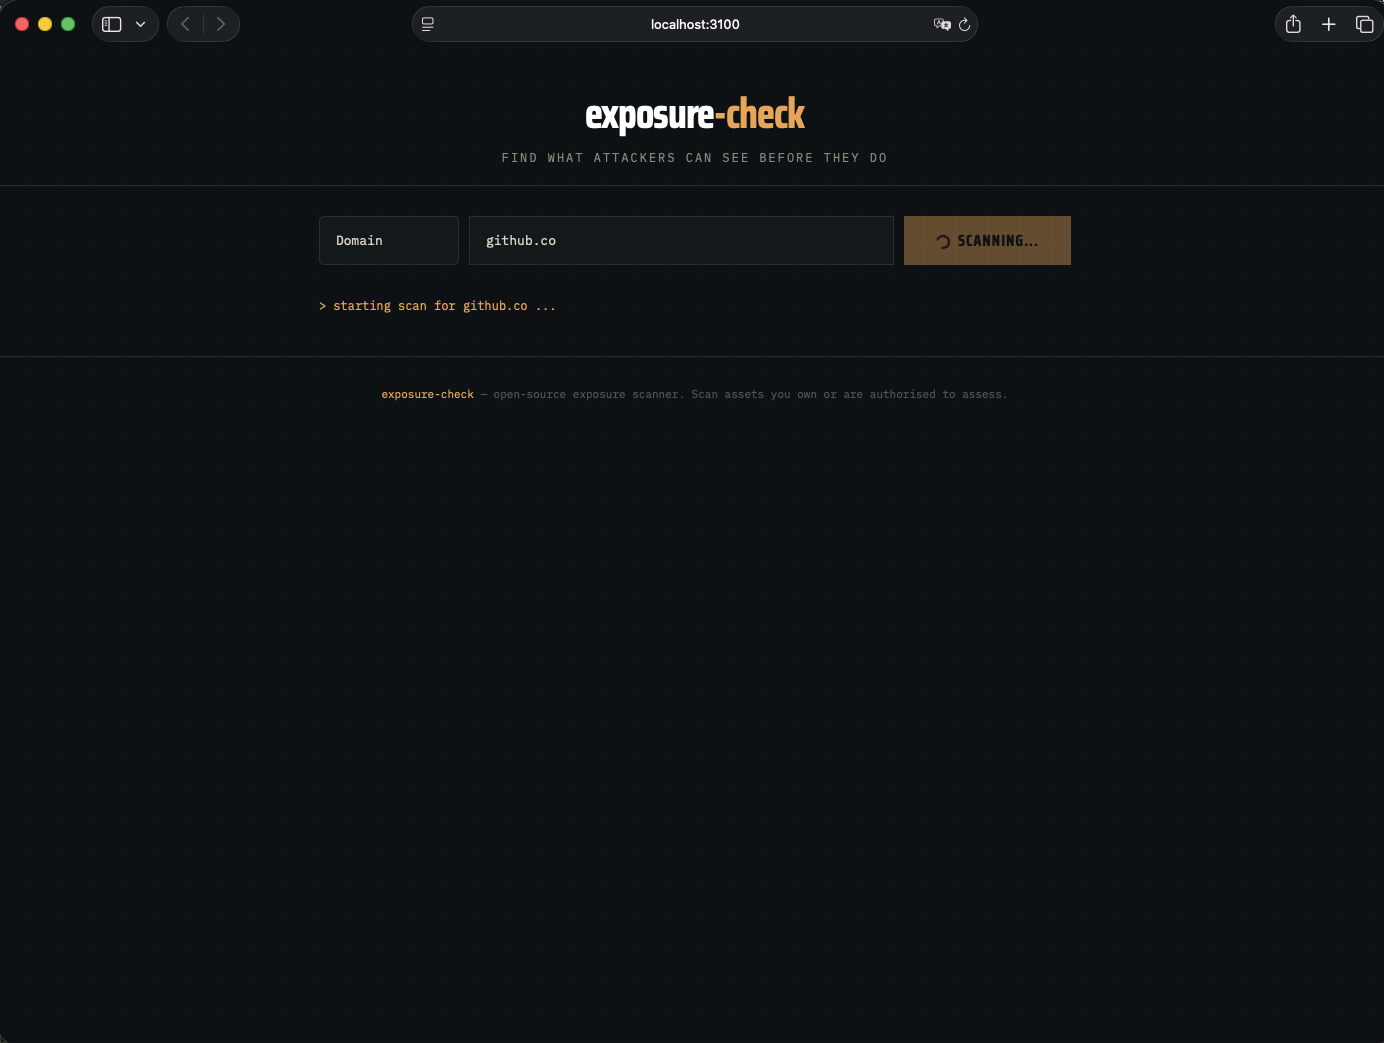
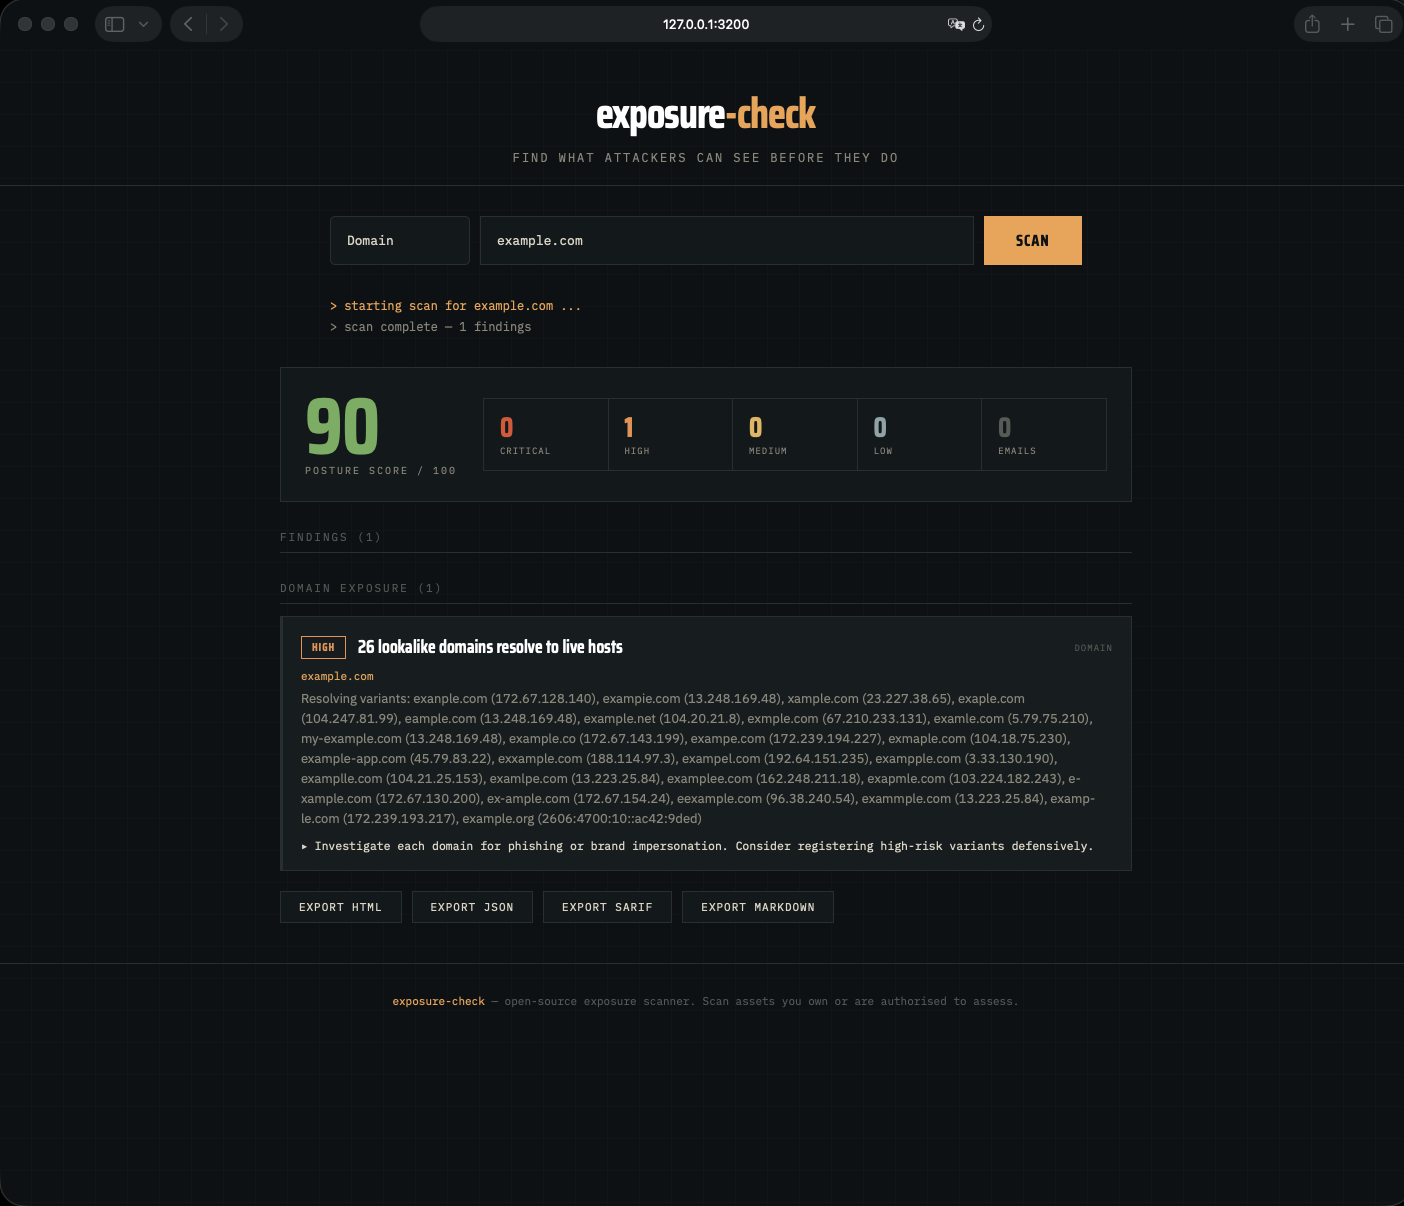
Security: bind dashboard to localhost only, replace screenshots
- Default bind address changed from 0.0.0.0 to 127.0.0.1 (prevents
  unintended network exposure of scan API and GITHUB_TOKEN)
- Added --host flag to explicitly open to other interfaces with warning
- Added authorization disclaimer to dashboard UI
- Replaced github.co screenshots with example.com (own/safe target)

diff --git a/dashboard/static/index.html b/dashboard/static/index.html
@@ -112,6 +112,7 @@ footer a{color:var(--sodium);text-decoration:none}
 <div class="results empty-state" id="emptyState">
   <div class="icon">&#x1f50d;</div>
   <p>Enter a domain, GitHub organisation, or repository above and hit SCAN to discover your exposure.</p>
+  <p style="margin-top:16px;font-size:11px;color:var(--faint)">Only scan assets you own or are explicitly authorised to assess.</p>
 </div>
 
 <footer>

diff --git a/server.go b/server.go
@@ -14,7 +14,7 @@ import (
 //go:embed dashboard/static
 var staticFS embed.FS
 
-func runDashboard(port int, token string) {
+func runDashboard(host string, port int, token string) {
 	mux := http.NewServeMux()
 
 	// serve static files
@@ -193,8 +193,11 @@ func runDashboard(port int, token string) {
 		w.Write([]byte(out))
 	})
 
-	addr := fmt.Sprintf(":%d", port)
-	fmt.Fprintf(os.Stderr, "\n  exposure-check dashboard\n  http://localhost%s\n\n", addr)
+	addr := fmt.Sprintf("%s:%d", host, port)
+	if host != "127.0.0.1" && host != "localhost" {
+		fmt.Fprintf(os.Stderr, "\n  ⚠ WARNING: dashboard is listening on %s — accessible from the network.\n  Ensure this is intentional. Anyone who can reach this port can trigger scans.\n\n", addr)
+	}
+	fmt.Fprintf(os.Stderr, "\n  exposure-check dashboard\n  http://%s\n\n", addr)
 	if err := http.ListenAndServe(addr, mux); err != nil {
 		fmt.Fprintln(os.Stderr, "error:", err)
 		os.Exit(1)

diff --git a/main.go b/main.go
@@ -38,7 +38,7 @@ USAGE
   exposure-check scan --github-org <org> [flags]
   exposure-check scan --repo <owner/repo> [flags]
   exposure-check scan --domain <domain> [flags]
-  exposure-check serve [--port 3000]                       # web dashboard
+  exposure-check serve [--port 3000] [--host 127.0.0.1]     # web dashboard
 
 FLAGS
   --repo         owner/repo to scan
@@ -60,6 +60,7 @@ Educational & defensive use only: scan assets you own or are authorised to asses
 
 func runServe(args []string) {
 	fs := flag.NewFlagSet("serve", flag.ExitOnError)
+	host := fs.String("host", "127.0.0.1", "bind address (default localhost only)")
 	port := fs.Int("port", 3000, "dashboard port")
 	token := fs.String("token", "", "GitHub token")
 	_ = fs.Parse(args)
@@ -67,7 +68,7 @@ func runServe(args []string) {
 	if tok == "" {
 		tok = os.Getenv("GITHUB_TOKEN")
 	}
-	runDashboard(*port, tok)
+	runDashboard(*host, *port, tok)
 }
 
 func runScan(args []string) {

diff --git a/README.md b/README.md
@@ -28,10 +28,10 @@ exposure-check serve --port 8080        # custom port
   <img src="docs/dashboard-scan.png" width="100%" alt="Dashboard — scan form">
 </p>
 <p align="center">
-  <img src="docs/dashboard-results.png" width="100%" alt="Dashboard — scanning in progress">
+  <img src="docs/dashboard-scanning.png" width="100%" alt="Dashboard — scanning in progress">
 </p>
 <p align="center">
-  <img src="docs/dashboard-findings.png" width="100%" alt="Dashboard — results with findings">
+  <img src="docs/dashboard-results.png" width="100%" alt="Dashboard — results with findings">
 </p>
 
 ## Install